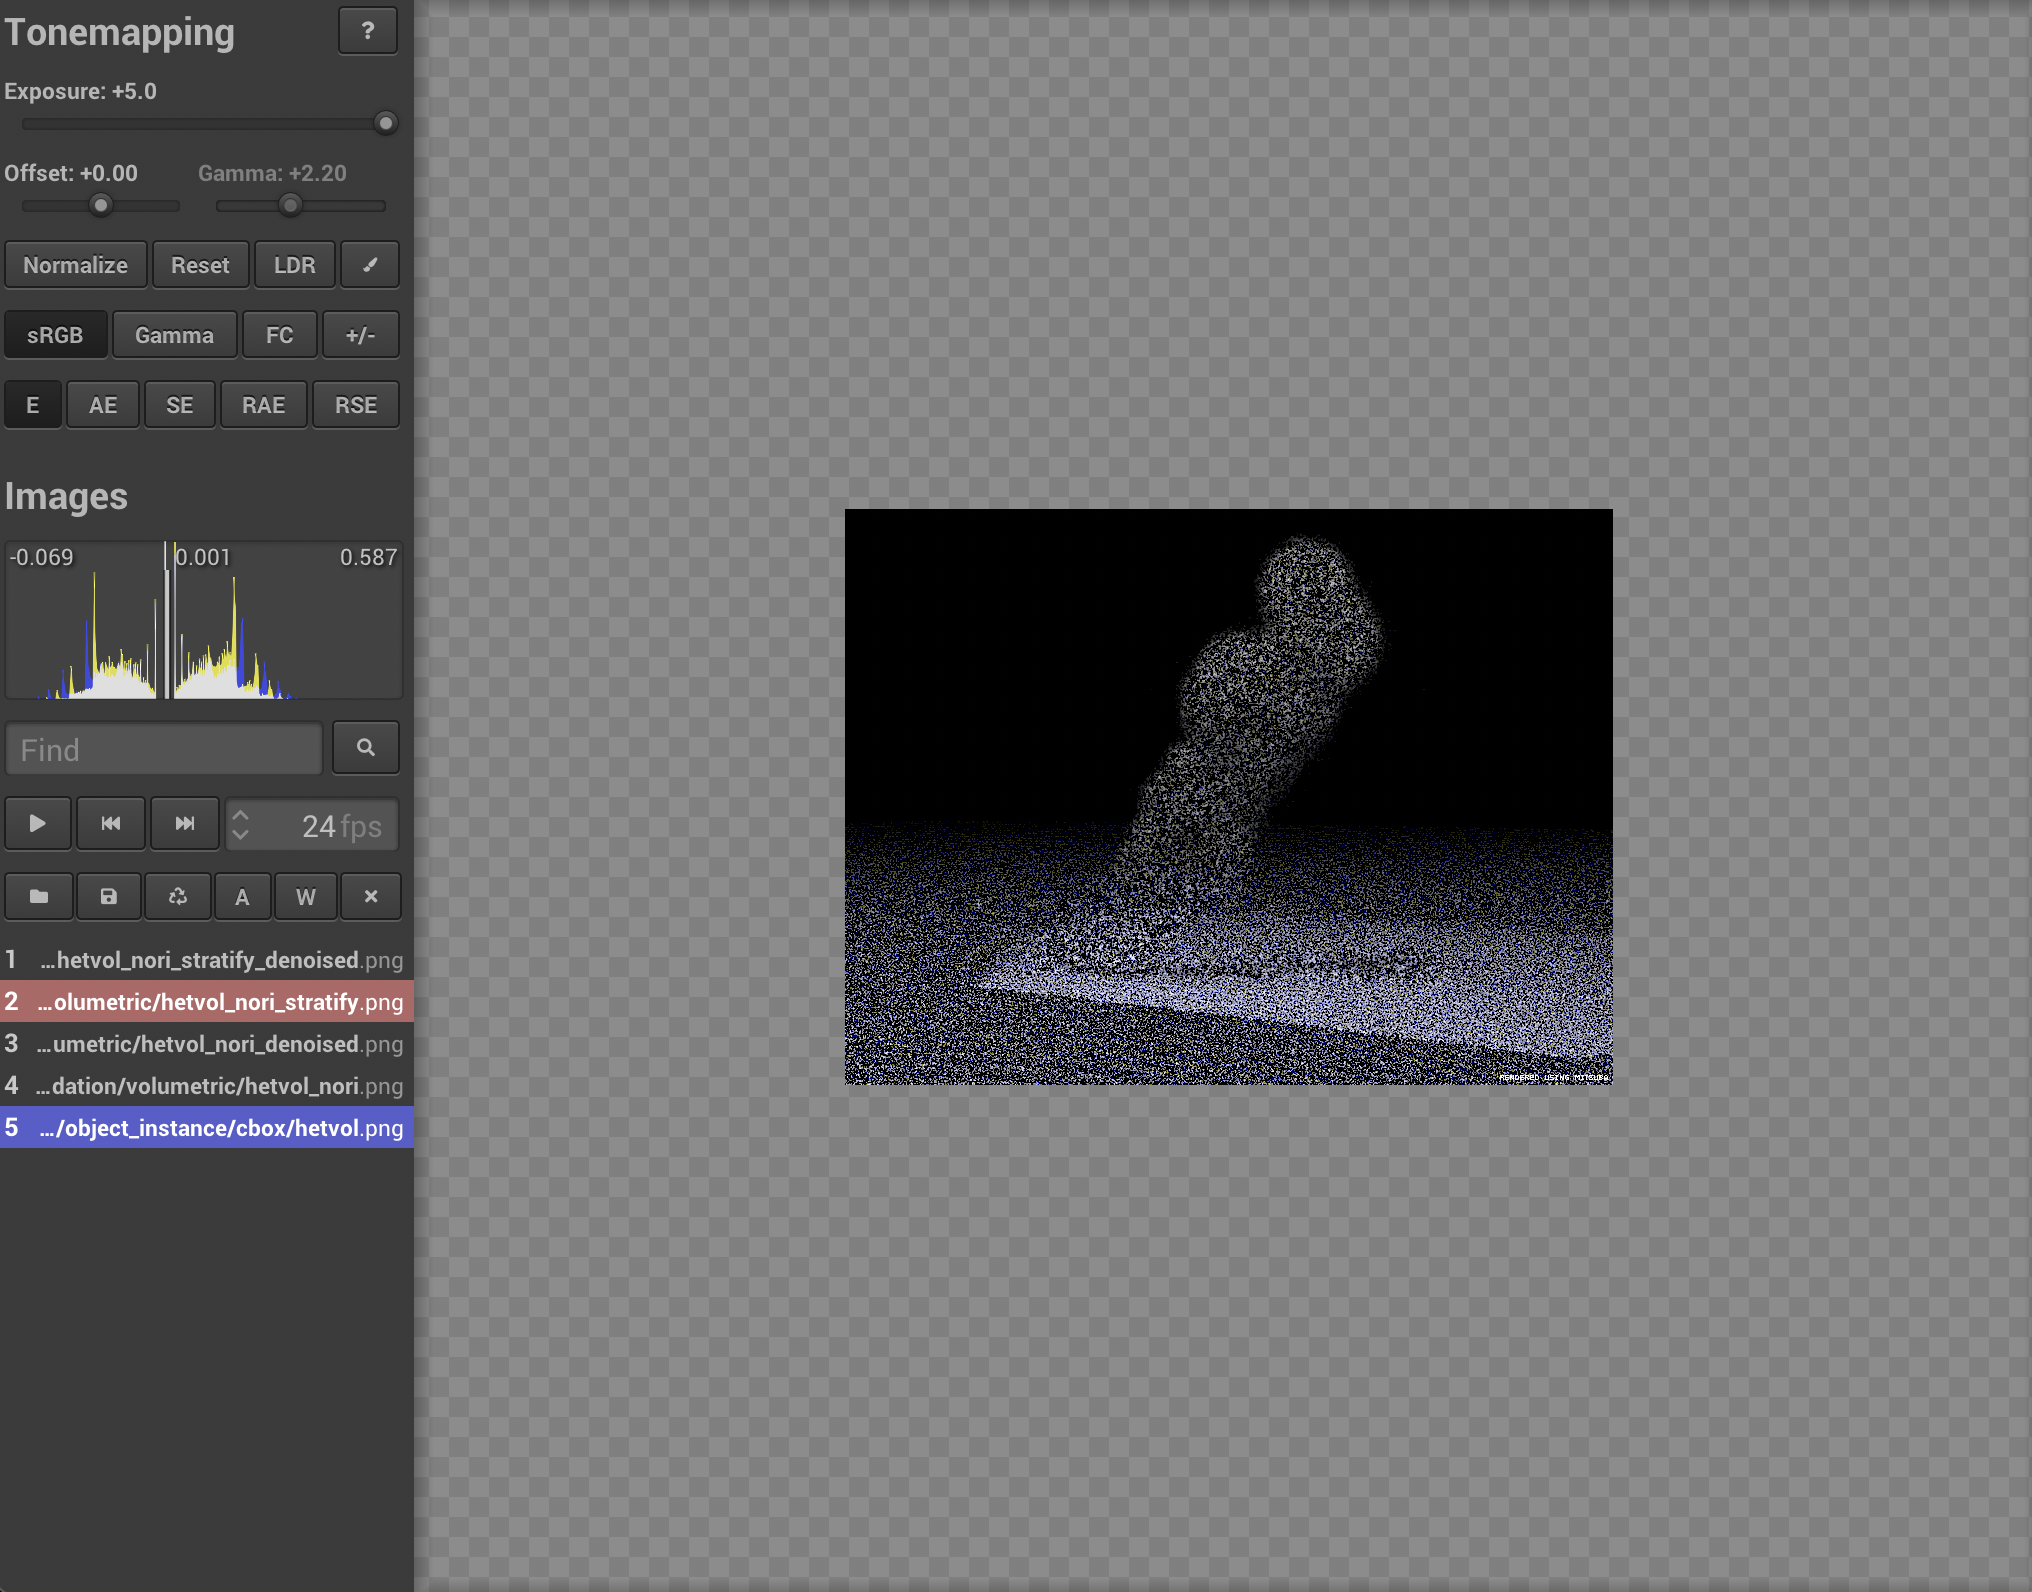
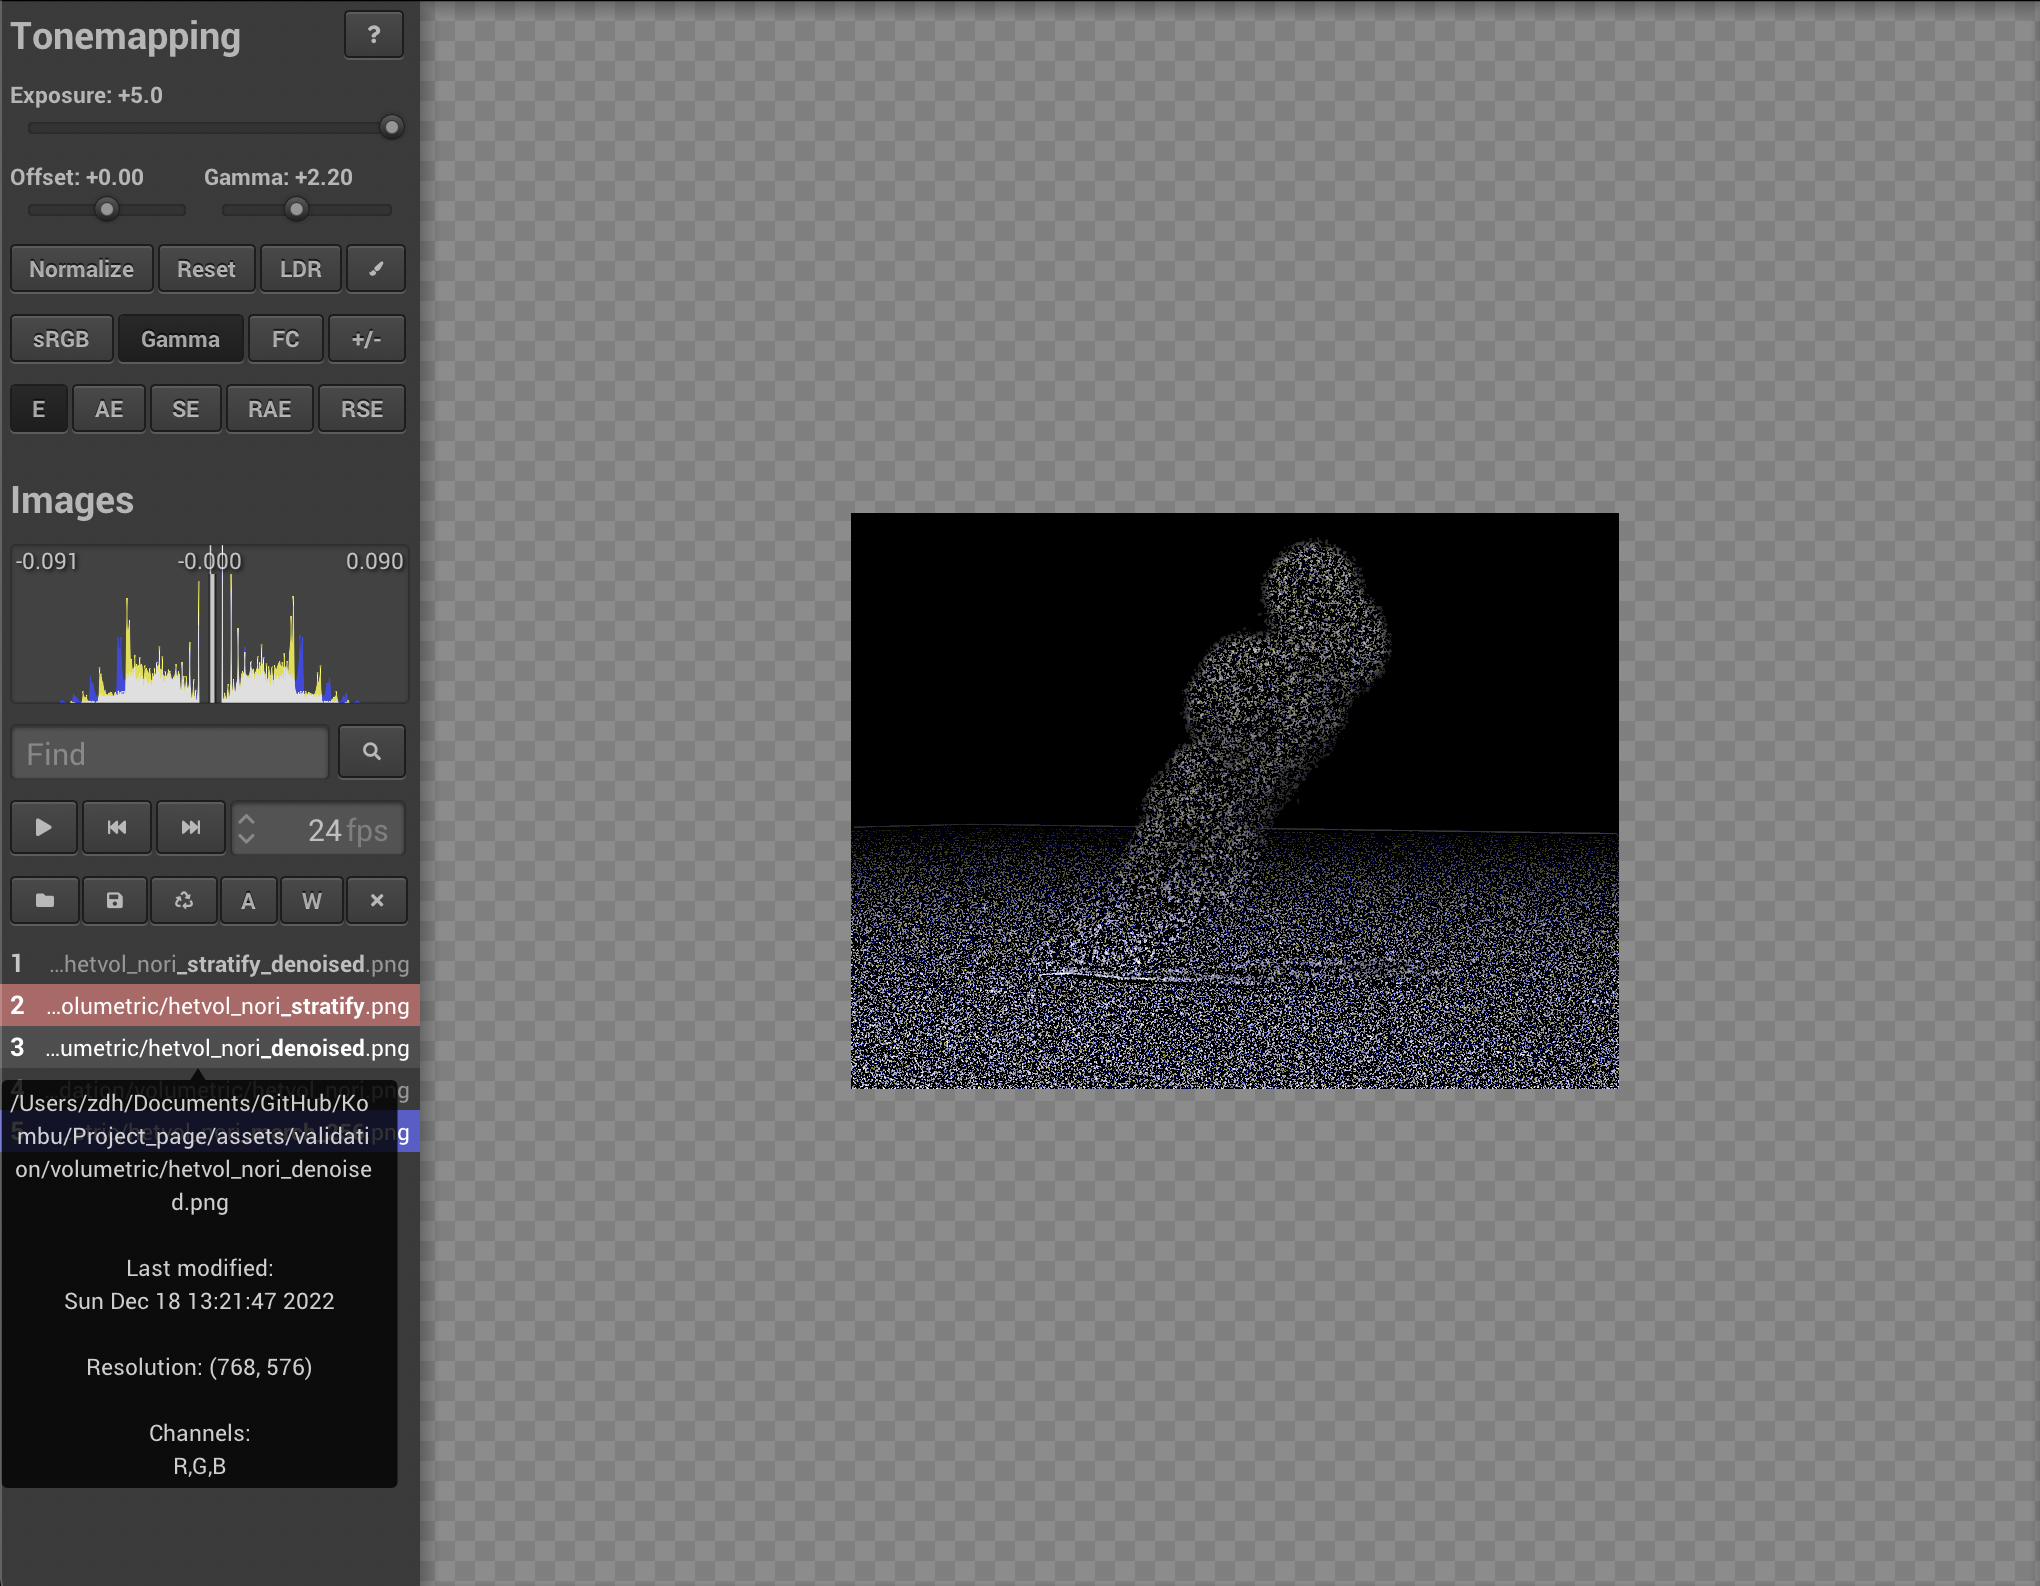
zdh report image

diff --git a/Project_page/report_zgl.html b/Project_page/report_zgl.html
@@ -166,8 +166,13 @@
             can be seen clearly that the noise distribution of the one with stratified sampling is more even than
             the one with independent sampling.</p>
             <div class="twentytwenty-container">
-                <img src="./assets/validation/stratified/hetvol_nori_stratified.png" alt="stratified sampling" class="img-responsive">
-                <img src="./assets/validation/stratified/hetvol_nori_independent.png" alt="independent sampling" class="img-responsive">
+                <img src="./assets/validation/volumetric/hetvol_nori_stratify.png" alt="stratified sampling" class="img-responsive">
+                <img src="./assets/validation/volumetric/hetvol_nori.png" alt="independent sampling" class="img-responsive">
+            </div> <br>
+            
+            <div class="twentytwenty-container">
+                <img src="./assets/validation/volumetric/error_stratify.png" alt="stratified sampling" class="img-responsive">
+                <img src="./assets/validation/volumetric/error.png" alt="independent sampling" class="img-responsive">
             </div> <br>
 
             <h3>Environment Map Emitter</h3>
